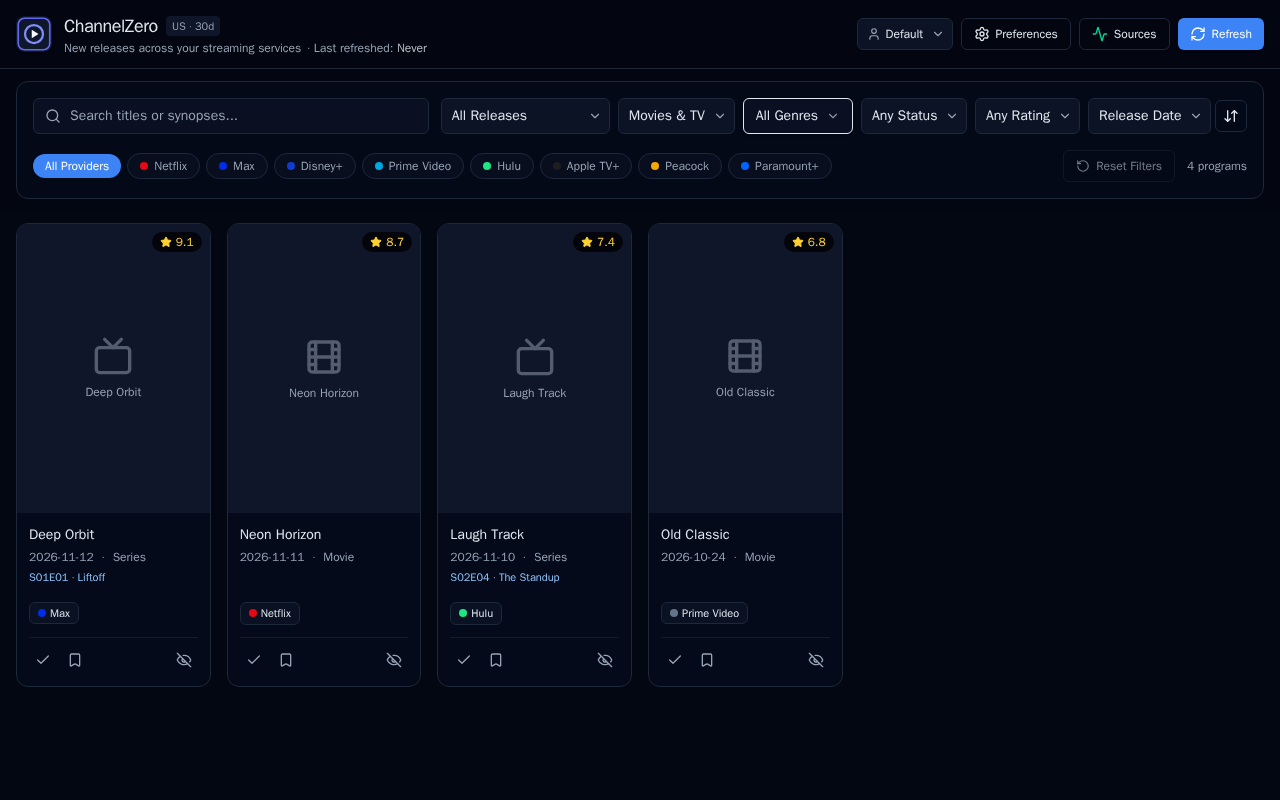
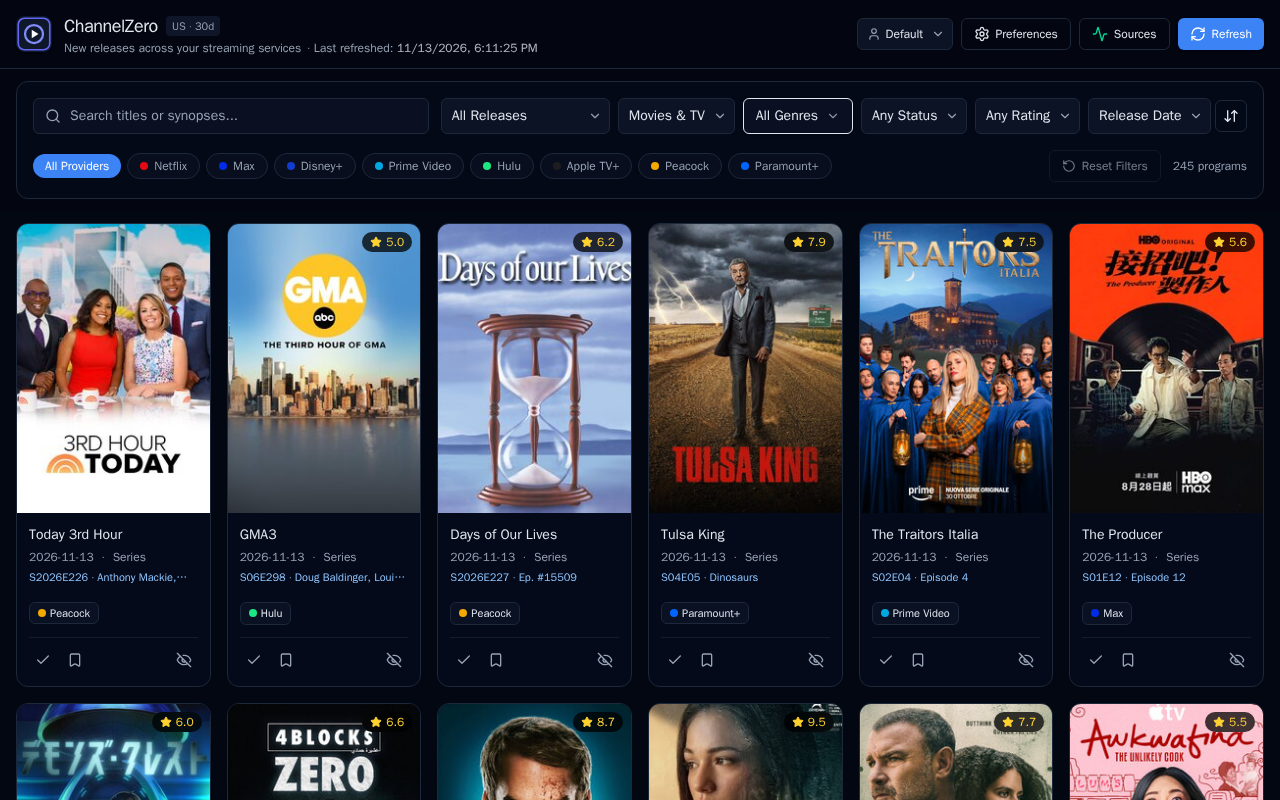
docs(readme): capture live API dashboard screenshot

diff --git a/playwright/tests/screenshot/screenshot.spec.ts b/playwright/tests/screenshot/screenshot.spec.ts
@@ -7,9 +7,24 @@ test('capture dashboard screenshot for README', async ({ page }) => {
   await page.goto('/')
 
   await expect(page.getByRole('heading', { name: 'ChannelZero' })).toBeVisible()
-  await expect(page.getByRole('heading', { name: 'Neon Horizon' })).toBeVisible()
-  await expect(page.getByText('4 programs')).toBeVisible()
-  await page.waitForLoadState('networkidle')
+  await expect(page.locator('article.group').first()).toBeVisible({ timeout: 30_000 })
+
+  // Wait for all visible poster images to finish loading
+  await page.evaluate(async () => {
+    const imgs = Array.from(document.images)
+    await Promise.all(
+      imgs
+        .filter((img) => !img.complete)
+        .map(
+          (img) =>
+            new Promise<void>((resolve) => {
+              img.addEventListener('load', () => resolve(), { once: true })
+              img.addEventListener('error', () => resolve(), { once: true })
+            }),
+        ),
+    )
+  })
+  await page.waitForTimeout(300)
 
   const outPath = path.resolve(process.cwd(), '../docs/dashboard.png')
   mkdirSync(path.dirname(outPath), { recursive: true })
